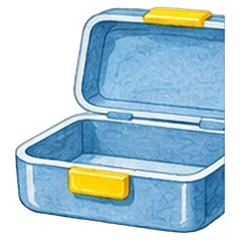
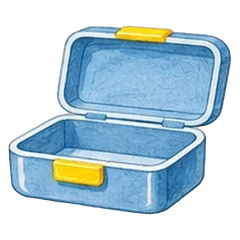
Courgette: meetspel met drie echte courgettes (niet uitgerekt), broodtrommel-icoon heel
Claude-Session: https://claude.ai/code/session_0125tTf79SJwePaL5hw54buB

diff --git a/index.html b/index.html
@@ -727,11 +727,12 @@ html.dia .kkaart{min-height:0}
 html.dia .obkennis{flex:1 1 0}
 @media (max-width:820px){.obkennis{grid-template-columns:1fr}}
 .obgroei{display:grid;grid-template-columns:minmax(0,1fr) clamp(170px,calc(var(--vw)*17),250px);gap:24px;align-items:center;flex:1 1 auto;min-height:0}
-.obgroeivlak{position:relative;background:var(--paper);border:2px solid var(--line);border-radius:24px;padding:clamp(18px,calc(var(--vw)*2.4),36px);display:flex;flex-direction:column;justify-content:flex-end;gap:10px;min-height:clamp(220px,calc(var(--vw)*24),360px);--blok:calc((100% - (var(--max) - 1) * 6px) / var(--max))}
+.obgroeivlak{position:relative;background:var(--paper);border:2px solid var(--line);border-radius:24px;padding:clamp(18px,calc(var(--vw)*2.4),36px);display:flex;flex-direction:column;justify-content:flex-end;gap:10px;min-height:clamp(220px,calc(var(--vw)*24),360px);
+  --blokw:min(clamp(44px,calc(var(--vw)*6.2),90px), calc((100vw - 110px) / var(--max) - 6px))}
 .obdag{position:absolute;top:14px;left:18px;font-family:var(--display);font-size:clamp(20px,calc(var(--vw)*2),30px);color:var(--orange-dark)}
-.obgroeiding{width:calc(var(--n) * (100% + 6px) / var(--max) - 6px);transition:width .9s cubic-bezier(.3,1.4,.5,1)}
-.obgroeiding img{width:100%;height:calc(clamp(50px,calc(var(--vw)*6),96px) * (.6 + .6 * var(--n) / var(--max)));object-fit:fill;transition:height .9s cubic-bezier(.3,1.4,.5,1);display:block;filter:drop-shadow(0 4px 4px rgba(59,43,34,.2))}
-.obblokjes{display:grid;grid-template-columns:repeat(var(--max),1fr);gap:6px}
+.obgroeiding{width:calc(var(--n) * (var(--blokw) + 6px) - 6px);transition:width .9s cubic-bezier(.3,1.4,.5,1)}
+.obgroeiding img{width:100%;height:auto;display:block;filter:drop-shadow(0 5px 4px rgba(59,43,34,.22))}
+.obblokjes{display:grid;grid-template-columns:repeat(var(--max),var(--blokw));gap:6px;justify-content:start}
 .obblokjes i{aspect-ratio:1;border-radius:8px;border:2px dashed var(--line);display:grid;place-items:center;font-style:normal;font-weight:800;color:#fff;font-size:clamp(14px,calc(var(--vw)*1.6),24px)}
 .obblokjes i.aan{border:0;background:hsl(calc(var(--h,200)) 70% 55%);box-shadow:inset 0 -4px 0 rgba(0,0,0,.18)}
 .obblokjes i.aan:nth-child(4n+1){--h:200}.obblokjes i.aan:nth-child(4n+2){--h:45}.obblokjes i.aan:nth-child(4n+3){--h:350}.obblokjes i.aan:nth-child(4n+4){--h:130}
@@ -779,7 +780,7 @@ html.dia .obgroei{flex:1 1 0}
   </footer>
 </div>
 
-<script>const VERSIE="2026-11-16b";   /* ophogen bij elke live-zetting: dan halen browsers de nieuwe lessen op i.p.v. een oude kopie */
+<script>const VERSIE="2026-11-16d";   /* ophogen bij elke live-zetting: dan halen browsers de nieuwe lessen op i.p.v. een oude kopie */
 document.write('<script src="soepen/soepen.js?v='+VERSIE+'"><\/script>');</script>
 <script>
 /* ============ INHOUD ============
@@ -1407,7 +1408,7 @@ SPEL.groei = sp => {
   return band(goed && laatste ? "Wat een reuzencourgette!" : sp.titel) + `<div class="inner obles"><div class="obgroei" style="--max:${max}">
     <div class="obgroeivlak">
       <span class="obdag">Dag ${r+1}</span>
-      <div class="obgroeiding" style="--n:${n}">${img(pad.soep(sp.ding),"")}</div>
+      <div class="obgroeiding" style="--n:${n}">${img(pad.soep(sp.dingen ? sp.dingen[Math.min(r,sp.dingen.length-1)] : sp.ding),"")}</div>
       <div class="obblokjes">${Array.from({length:max},(_,i)=>`<i class="${i<n?"aan":""}">${goed&&i<n?i+1:""}</i>`).join("")}</div>
     </div>
     <div class="obtelzij">

diff --git a/soepen/courgette/les.js b/soepen/courgette/les.js
@@ -29,7 +29,7 @@ LESSEN.courgette = {
     kennis:{ kleur:{ kleuren:["#4E7A2E","#F2C200"], tekst:"Groen! Maar er zijn ook gele courgettes." }, grond:{ plek:"boven", tekst:"Erboven! Hij groeit aan een plant met hele grote bladeren." }, weetje:{ v:"Hoe groot kan een courgette worden?", a:"Laat je hem hangen, dan wordt hij zo groot als je arm!" } },   // dia "In het echt" na "Wie ben ik?" (foto = img/foto.webp)
     // spellen: elk spel is een eigen dia, in deze volgorde.
     spellen:[
-      { type:"groei", naam:"Hoe lang is hij?", titel:"Hoe lang is de courgette?", ding:"ob-courgette", rondes:[3,5,8],
+      { type:"groei", naam:"Hoe lang is hij?", titel:"Hoe lang is de courgette?", dingen:["ob-courgette-1","ob-courgette-2","ob-courgette-3"], rondes:[3,5,8],
         start:"Kijk, een kleine courgette aan de plant. Hoeveel blokjes is hij lang? Tel samen en tik op het getal.",
         verder:"Een dag later is hij gegroeid. Hoeveel blokjes is hij nu?",
         slot:"Een courgette groeit heel snel. Daarom plukken we hem als hij nog klein is: dan is hij het lekkerst." },

diff --git a/tools/controleer.js b/tools/controleer.js
@@ -50,6 +50,7 @@ for (const soep of SOEPEN.filter(s => s.klaar || (alles && fs.existsSync(path.jo
     if (sp.popcorn) plaatjes.add(sp.popcorn);
     if (sp.plaat) plaatjes.add(sp.plaat);
     if (sp.ding && sp.type==="groei") plaatjes.add(sp.ding);
+    (sp.type==="groei" && sp.dingen || []).forEach(x=>plaatjes.add(x));
     (sp.items || []).forEach(x => { if (x.ico && !fs.existsSync(path.join(root, `img/iconen/${x.ico}.webp`))) fout(`icoon ontbreekt: img/iconen/${x.ico}.webp`); });
     (sp.opties || []).forEach(x => lijf.add(x.lijf));
   });
